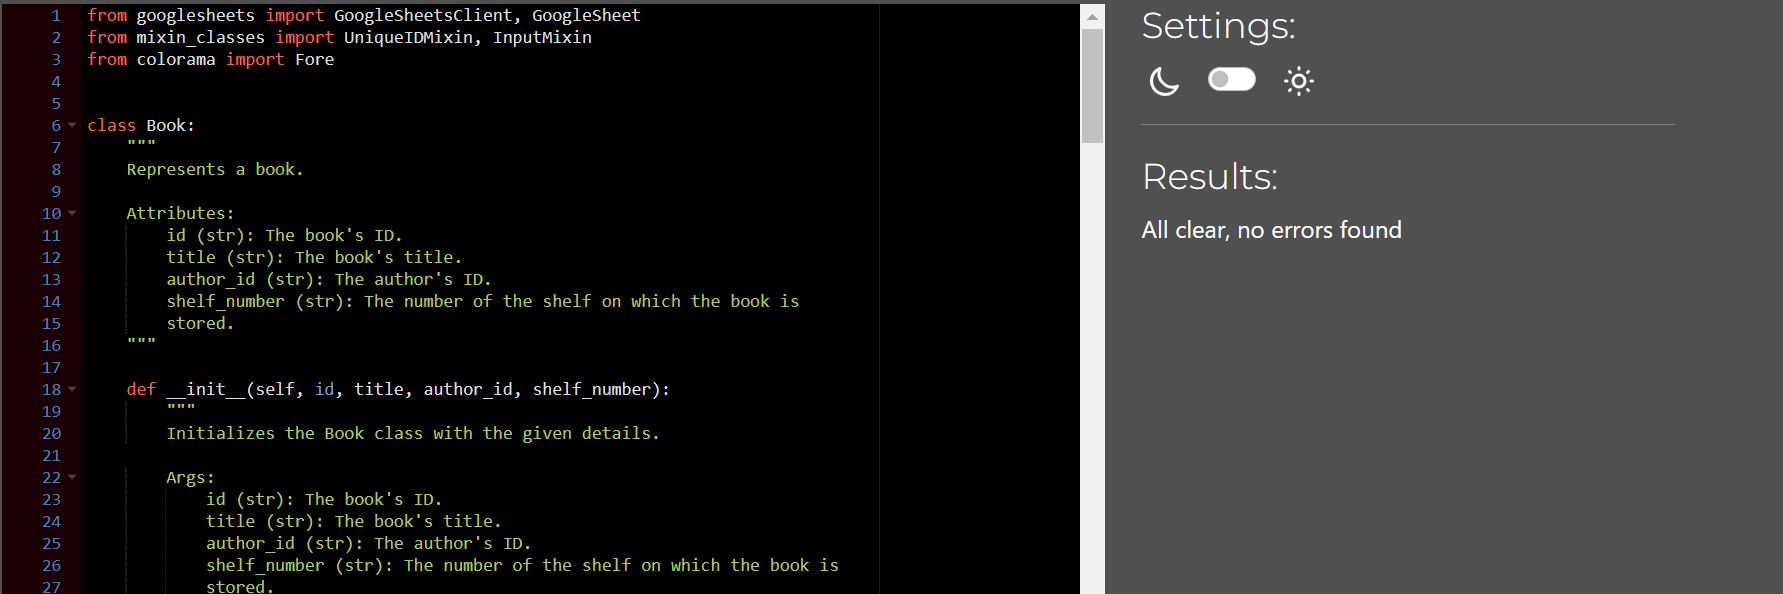
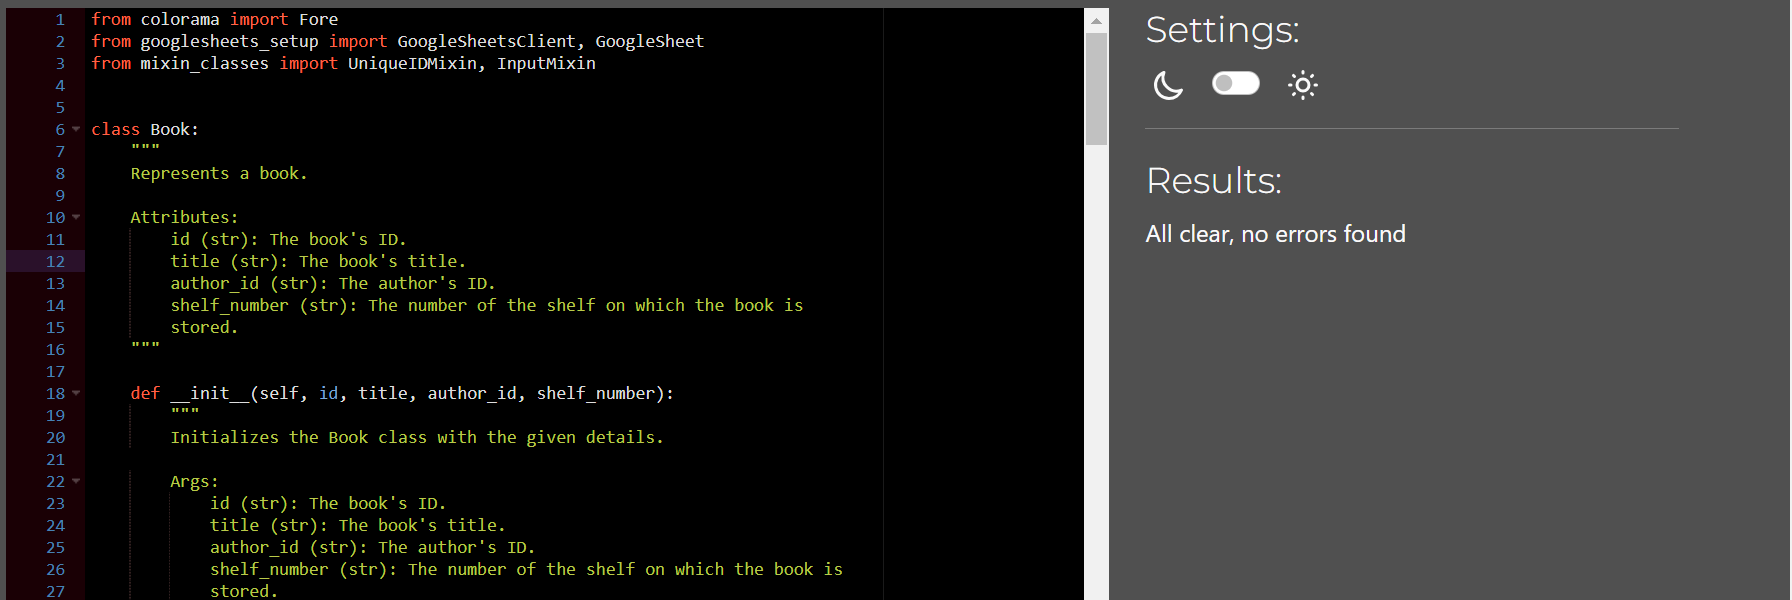
Change white spaces after checking validator

diff --git a/menu.py b/menu.py
@@ -104,7 +104,8 @@ class Menu(InputMixin):
                 "Enter the full name or 'Exit' to back to the previous step:\n"
             )
             if full_name is None:
-                break # Exit if user chooses to
+                # Exit if the user chooses to
+                break
             # Input the birth year
             birth_year = self.input_int(
                 "Enter the birth year or 'Exit' to back to the previous"
@@ -112,7 +113,8 @@ class Menu(InputMixin):
             )
 
             if birth_year is None:
-                break # Exit if the user chooses to
+                # Exit if the user chooses to
+                break
             # Check for duplicates
             record = self.authors_manager.check_duplicate_data(
                 {
@@ -130,7 +132,8 @@ class Menu(InputMixin):
                     f"{birth_year}. ID is "
                     f"{record[self.authors_manager.attributes_name["id"]]}"
                 )
-                continue # Continue to prompt for new author information
+                # Continue to prompt for new author information
+                continue
             # Add a new author to the worksheet
             new_author = Author(
                 self.authors_manager.generate_unique_id(),
@@ -143,7 +146,8 @@ class Menu(InputMixin):
                     Fore.GREEN +
                     f"Author {new_author.to_fstring()} added successfully."
                 )
-                break # Exit the loop after successfully adding the author
+                # Exit the loop after successfully adding the author
+                break
             # If adding the author failed
             print(
                 Fore.RED +
@@ -159,12 +163,14 @@ class Menu(InputMixin):
                 "previous step:\n"
             )
             if value is None:
-                break # Exit if the user chooses to
+                # Exit if the user chooses to
+                break
             # Find the author by the full name or ID
             [author, row] = self.authors_manager.find_author(value)
 
             if author is None:
-                continue # Continue to prompt for valid author information
+                # Continue to prompt for valid author information
+                continue
             # Input new full name
             new_full_name = self.input_str(
                 "Enter the new full name or empty string not to change the "
@@ -172,7 +178,8 @@ class Menu(InputMixin):
                 True,
             )
             if new_full_name is None:
-                break # Exit if the user chooses to
+                # Exit if the user chooses to
+                break
             elif new_full_name:
                 # If a new full name is provided, update the author's full name
                 author.full_name = new_full_name
@@ -182,7 +189,8 @@ class Menu(InputMixin):
                 "step:\n"
             )
             if birth_year is None:
-                break # Exit if the user chooses to
+                # Exit if the user chooses to
+                break
             # Update the author's birth year
             author.birth_year = birth_year
             # Edit the author in the worksheet
@@ -349,7 +357,7 @@ class Menu(InputMixin):
             author, row_author = self.authors_manager.find_author(value)
             if author:
                 # Return the author and row number if found
-                return author, row_author 
+                return author, row_author
             else:
                 # Print an error message if the author not found
                 print(Fore.RED + f"Author '{value}' not found.")
@@ -360,14 +368,16 @@ class Menu(InputMixin):
             # Find the author
             author, row = self.get_author_and_row()
             if author is None:
-                return # Return if author is not found or user exits
+                # Return if the author is not found or the user exits
+                return
 
             # Input the title
             title = self.input_str(
                 "Enter the title or 'Exit' to back to the previous step:\n"
             )
             if title == "exit":
-                break # Break loop if the user enters 'exit'
+                # Break loop if the user enters 'exit'
+                break
             # Check on duplicates
             record = self.books_manager.check_duplicate_data(
                 {
@@ -392,7 +402,8 @@ class Menu(InputMixin):
             )
 
             if shelf_number is None:
-                break # Break loop if user exits
+                # Break loop if the user exits
+                break
             # Create a new book object
             new_book = Book(
                 self.books_manager.generate_unique_id(),
@@ -408,9 +419,10 @@ class Menu(InputMixin):
                     f"The book {new_book.to_fstring(author.full_name)} added "
                     f"successfully."
                 )
-                break # Break loop on successful addition
+                # Break loop on successful addition
+                break
             else:
-                # Print an error message if addition fails
+                # Print an error message if an addition fails
                 print(
                     Fore.RED +
                     f"Failed to add the book "
@@ -443,7 +455,8 @@ class Menu(InputMixin):
                 author.full_name
             )
             if book:
-                return book, row # Return book and row if found
+                # Return book and row if found
+                return book, row
             else:
                 # Print error if the book is not found
                 print(
@@ -460,7 +473,8 @@ class Menu(InputMixin):
         # Find the book to edit
         book, row = self.find_book(author)
         if book is None:
-            return # Break loop if the user enters 'exit'
+            # Break loop if the user enters 'exit'
+            return
 
         while True:
             # Input the new title
@@ -470,7 +484,8 @@ class Menu(InputMixin):
                 True
             )
             if new_title is None:
-                break # Break loop if the user enters 'exit'
+                # Break loop if the user enters 'exit'
+                break
 
             if new_title:
                 book.title = new_title
@@ -479,7 +494,8 @@ class Menu(InputMixin):
                 "Enter the shelf number or 'Exit' to go back:\n"
             )
             if shelf_number is None:
-                break # Break loop if the user enters 'exit'
+                # Break loop if the user enters 'exit'
+                break
 
             book.shelf_number = shelf_number
             # Edit the book in the worksheet

diff --git a/mixin_classes.py b/mixin_classes.py
@@ -46,13 +46,16 @@ class InputMixin:
         value = None
         while True:
             try:
-                value = input(text_message) # Prompt the user for input
-
-                if value.lower() == "exit": # Check if the user wants to exit
-                    value = None # Set value to None to exit input loop
+                # Prompt the user for input
+                value = input(text_message)
+                # Check if the user wants to exit
+                if value.lower() == "exit":
+                    # Set a value to None to exit input loop
+                    value = None
                 else:
-                    value = int(value) # Convert the input to integer
-                    
+                    # Convert the input to an integer
+                    value = int(value)
+
                 if value <= 0:
                     raise ValueError("Value cannot be negative")
             except ValueError as e:
@@ -62,19 +65,25 @@ class InputMixin:
                     f"spaces, please try again.\n"
                 )
             else:
-                break # Break out of input loop if the input is valid
+                # Break out of input loop if the input is valid
+                break
 
         return value
 
     @staticmethod
-    def input_str(text_message, empty_str_avaliable=False, exit_str_avaliable=False):
+    def input_str(
+        text_message,
+        empty_str_avaliable=False,
+        exit_str_avaliable=False
+    ):
         """
         Input the value which is a string.
 
         Args:
             text_message (str): The message is sent to the user.
             empty_str_avaliable (boolean): Allow to return an empty string.
-            exit_str_avaliable (boolean): Allow to return a string equal "exit".        
+            exit_str_avaliable (boolean): Allow to return a string
+            equal "exit".
 
         Returns:
             string or None: The value inputted by the user.
@@ -82,18 +91,21 @@ class InputMixin:
         value = None
         while True:
             try:
-                value = input(text_message).strip() # Prompt the user for input
+                # Prompt the user for input
+                value = input(text_message).strip()
                 if not empty_str_avaliable and not value:
                     # Raise error if empty string not allowed and
                     # the input is empty
                     raise ValueError("Value cannot be empty")
                 elif not exit_str_avaliable and value.lower() == "exit":
-                    value = None # Set value to None to exit input loop
+                    # Set a value to None to exit input loop
+                    value = None
 
             except ValueError as e:
                 # Print error message in red for invalid input
                 print(Fore.RED + f"Invalid data: {e}, please try again.\n")
             else:
-                break # Break out of input loop if the input is valid
+                # Break out of input loop if the input is valid
+                break
 
         return value

diff --git a/googlesheets_setup.py b/googlesheets_setup.py
@@ -162,12 +162,14 @@ class GoogleSheet:
                 value.lower() in record.get(attr).lower()
                 for attr, value in attributes_all.items()
             ):
-            # Check if the record matches any of the attributes
-            # in attributes_any
-            # Check if the record matches all of the attributes
-            # in attributes_all
-            # If both conditions are met, append the record
-            # to matching_records
+                """
+                Check if the record matches any of the attributes
+                in attributes_any
+                Check if the record matches all of the attributes
+                in attributes_all
+                If both conditions are met, append the record
+                to matching_records
+                """
                 matching_records.append([row, record])
         return matching_records
 
@@ -253,7 +255,8 @@ class GoogleSheet:
             try:
                 # Check if the chosen option is valid
                 if 0 <= choice < len(cells):
-                    return choice # Return the chosen option's index
+                    # Return the chosen option's index
+                    return choice
                 # Raise an error if the choice is not valid
                 raise ValueError(Fore.RED + "Please enter a valid option.")
             except ValueError as e:
@@ -278,5 +281,7 @@ class GoogleSheet:
                 record.get(attr) == value for attr,
                 value in attributes.items()
             ):
-                return record # Return the record if a duplicate is found
-        return None # Return None if no duplicate is found
+                # Return the record if a duplicate is found
+                return record
+        # Return None if no duplicate is found
+        return None

diff --git a/TESTING.md b/TESTING.md
@@ -62,16 +62,20 @@ The all options were tested and works correctly.
 ## Validator
 Quality checking was tested by [PEP8](https://pep8ci.herokuapp.com/#).
 All files were checked and did not have errors and warnings.
+Notes: Each python files contains  a newline at the end of the file
 - authors.py
  ![validator - authors.py](documentation/validator/validator-authors.png)
  - books.py
- ![validator - authors.py](documentation/validator/validator-books.png)
- - googlesheets.py
- ![validator - authors.py](documentation/validator/validator-googlesheets.png)
+ ![validator - books.py](documentation/validator/validator-books.png)
+ - googlesheets_setup.py
+ ![validator - googlesheets_setup.py](documentation/validator/validator-googlesheets.png)
  - menu.py
- ![validator - authors.py](documentation/validator/validator-menu.png)
+ ![validator - menu.py](documentation/validator/validator-menu.png)
+ - mixin_classes.py
+ ![validator - menu.py](documentation/validator/validator-menu.png)
  - run.py
- ![validator - authors.py](documentation/validator/validator-run.png)
+ - run.py
+ ![validator - run.py](documentation/validator/validator-run.png)
 
 ## Bugs
 
